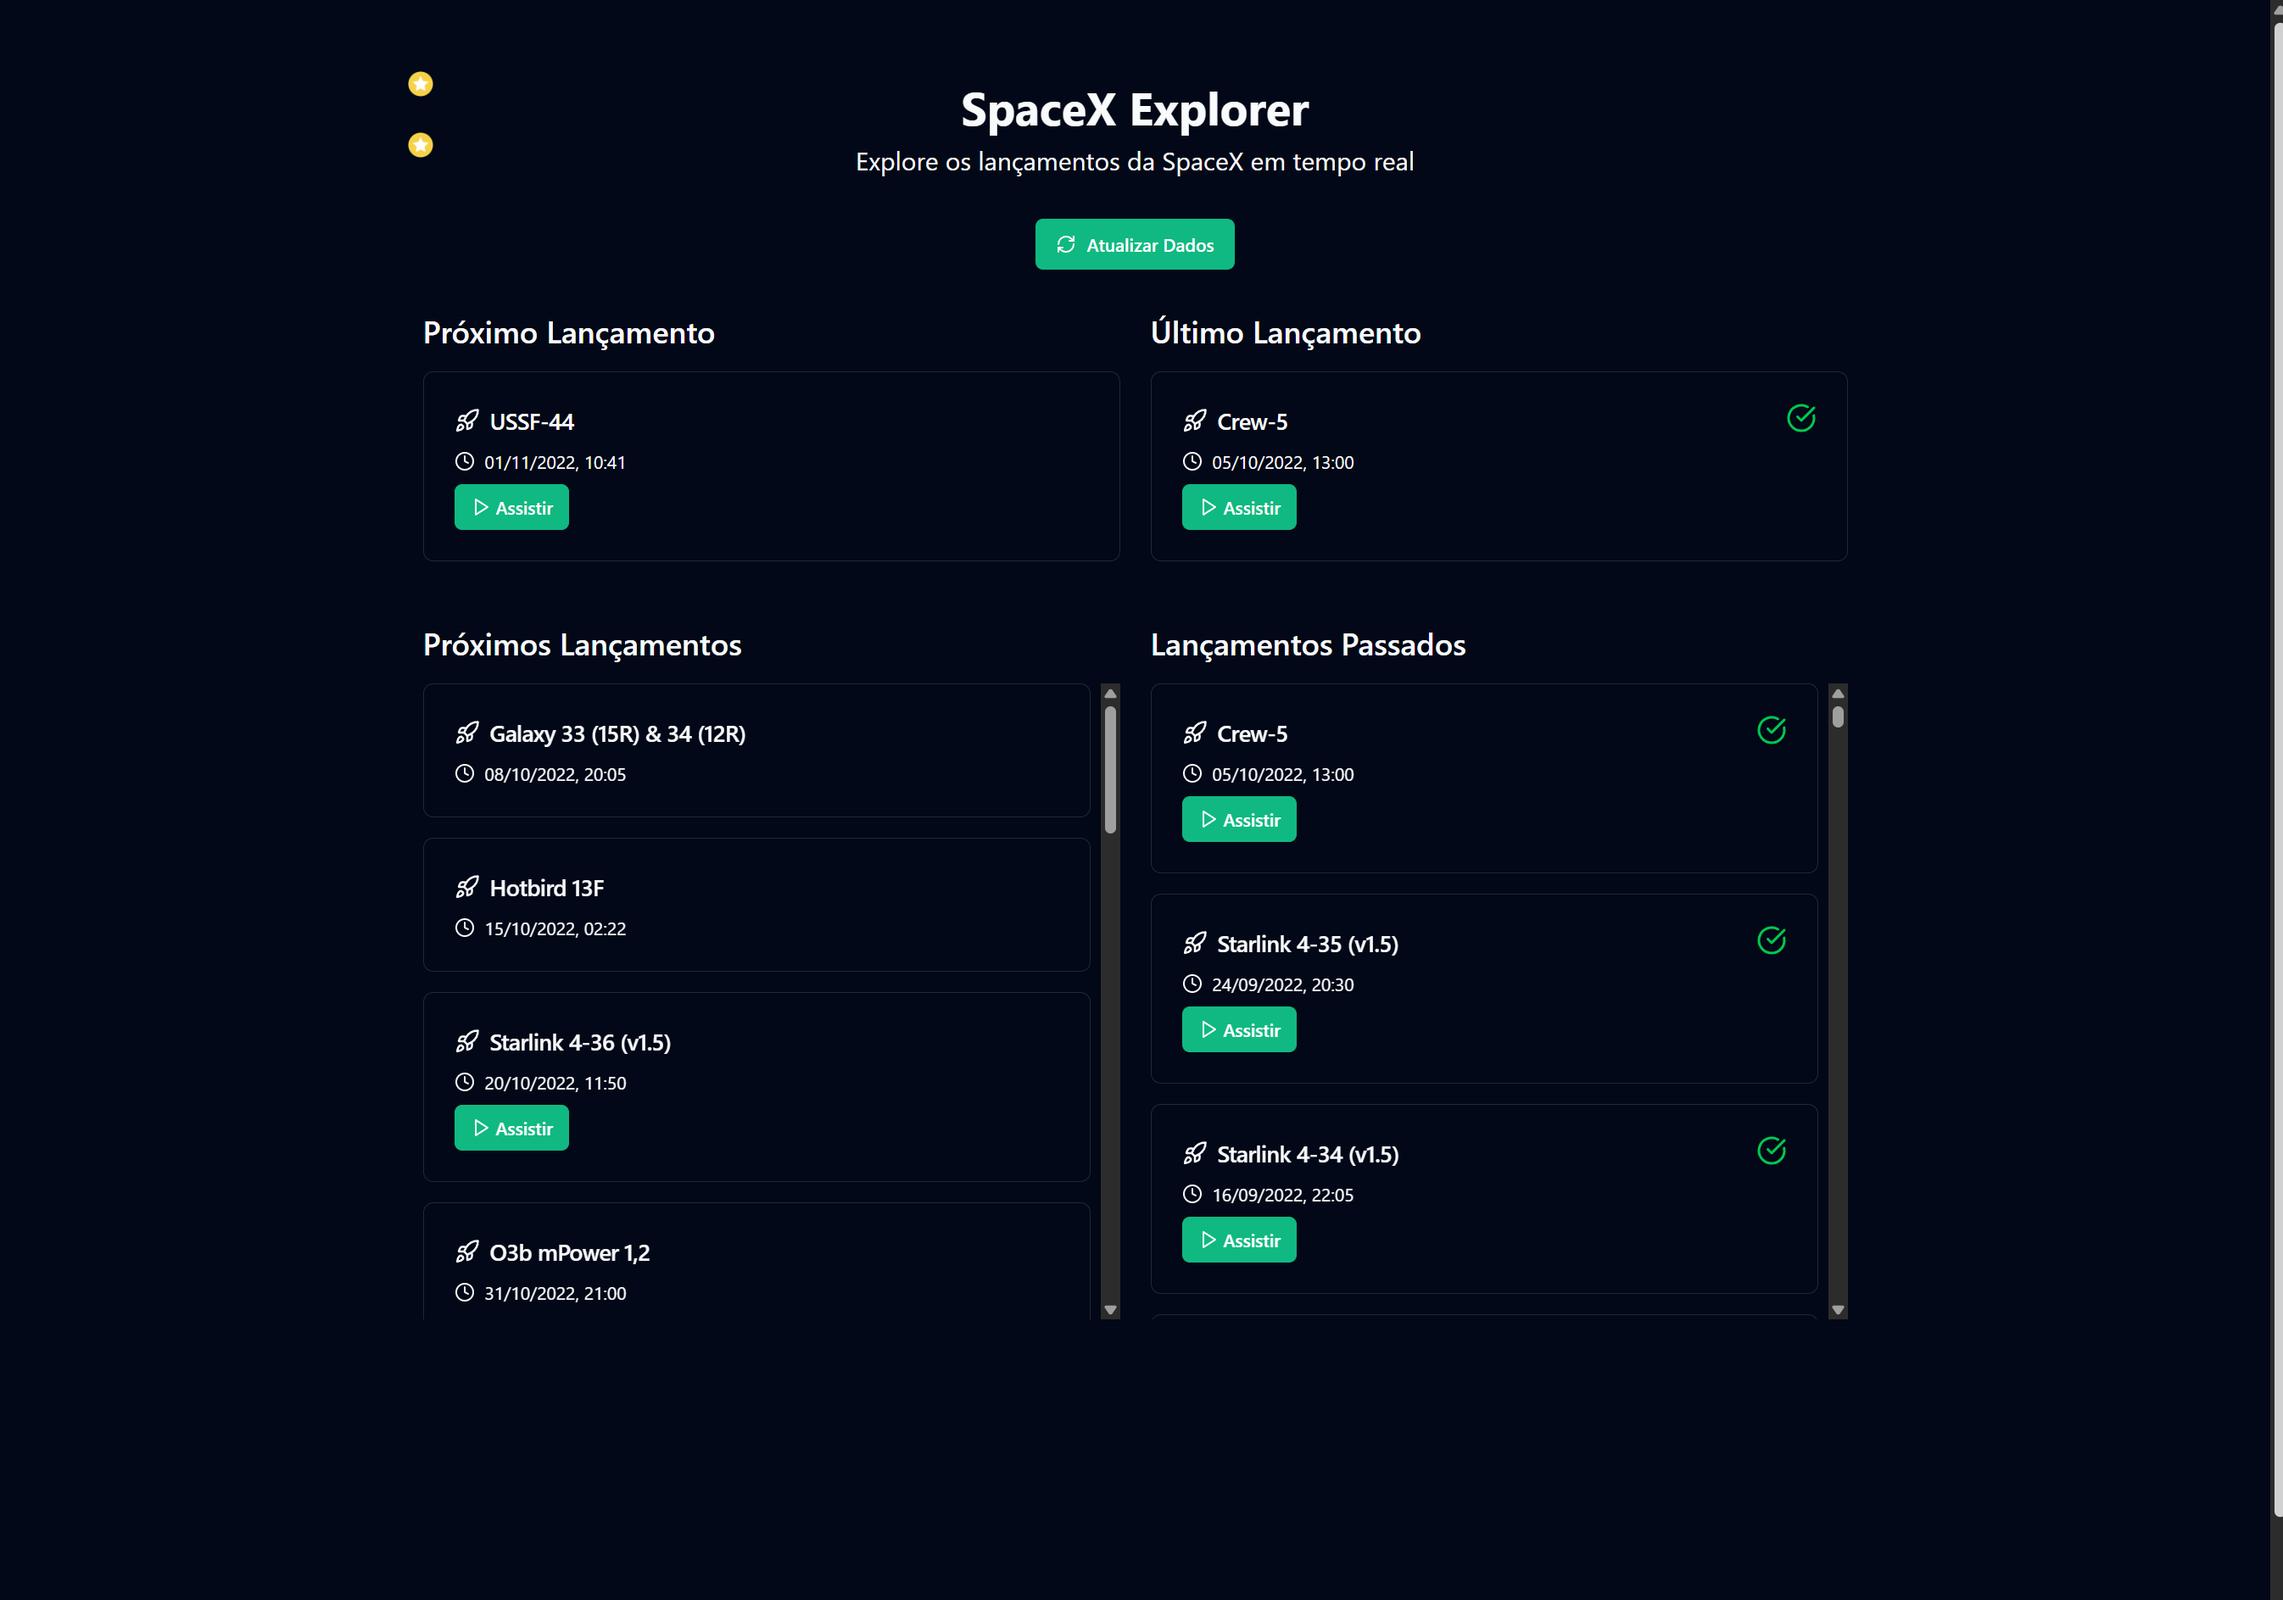
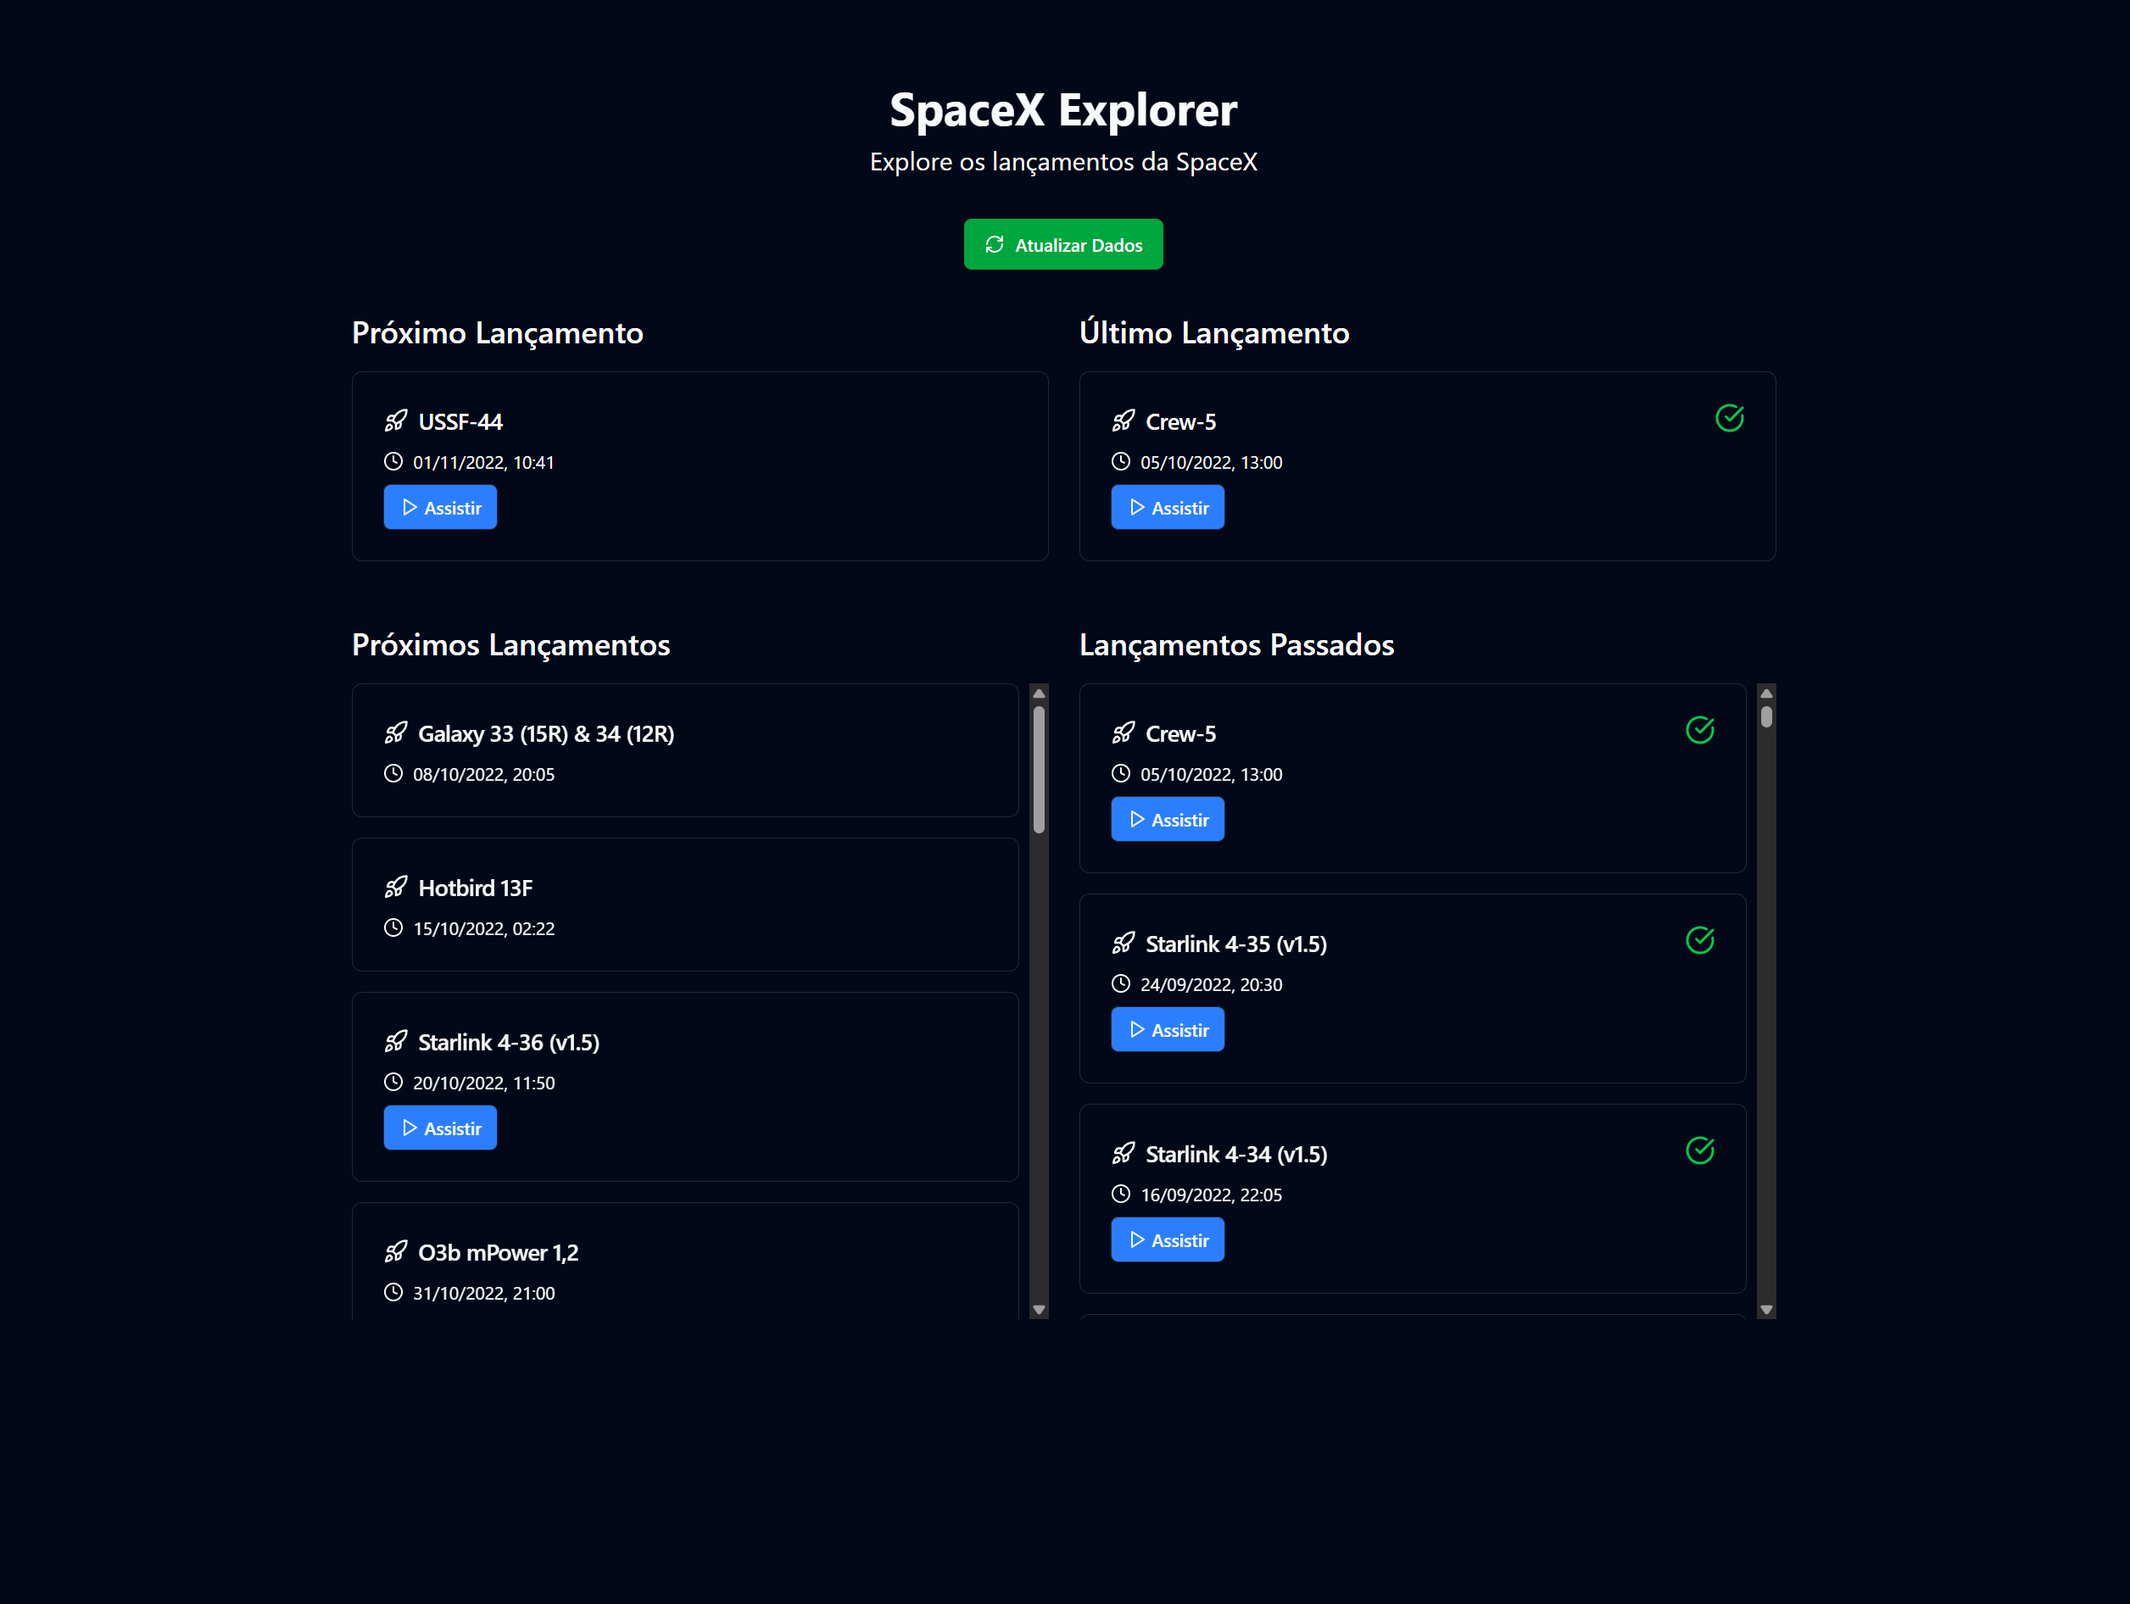
Feat: Update variant description and modify variant image

diff --git a/README.md b/README.md
@@ -56,6 +56,6 @@ Aplicação original sem nenhuma modificação.
 
 #### Variant 1
 
-Nessa variante, o título e subtitulo foram alterados juntamente com a cor do botões.
+Nessa variante, o texto do titulo foi alterado e a cor do botão de atualizar ficou verde.
 
 ![Image](./images/variant_1.png)
